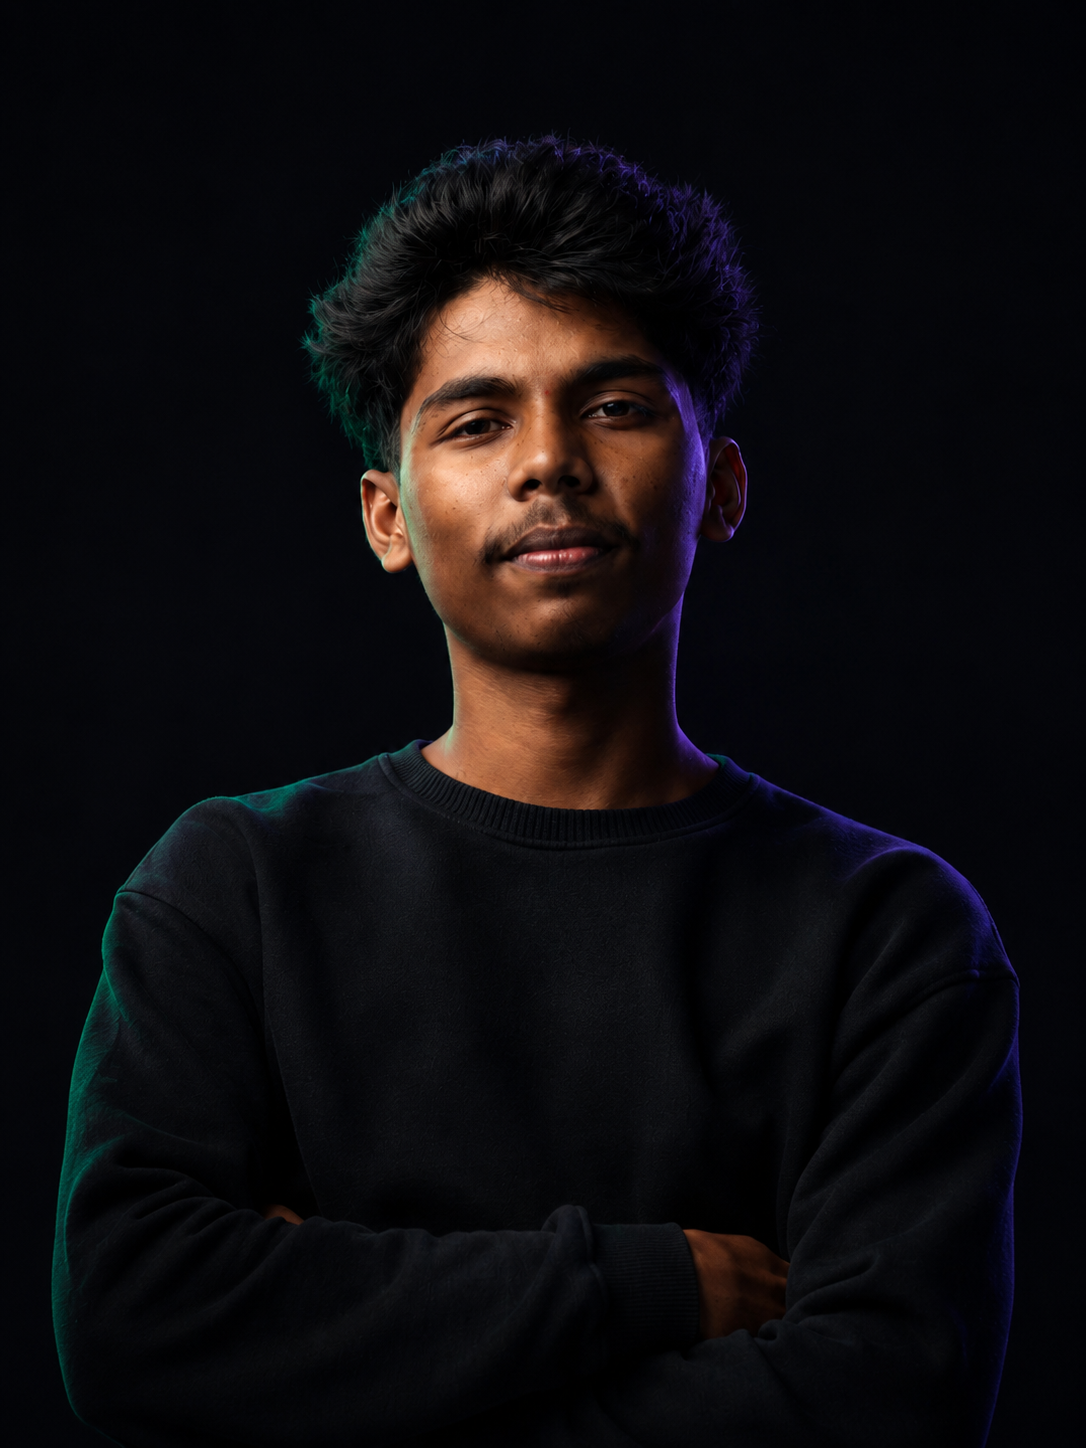
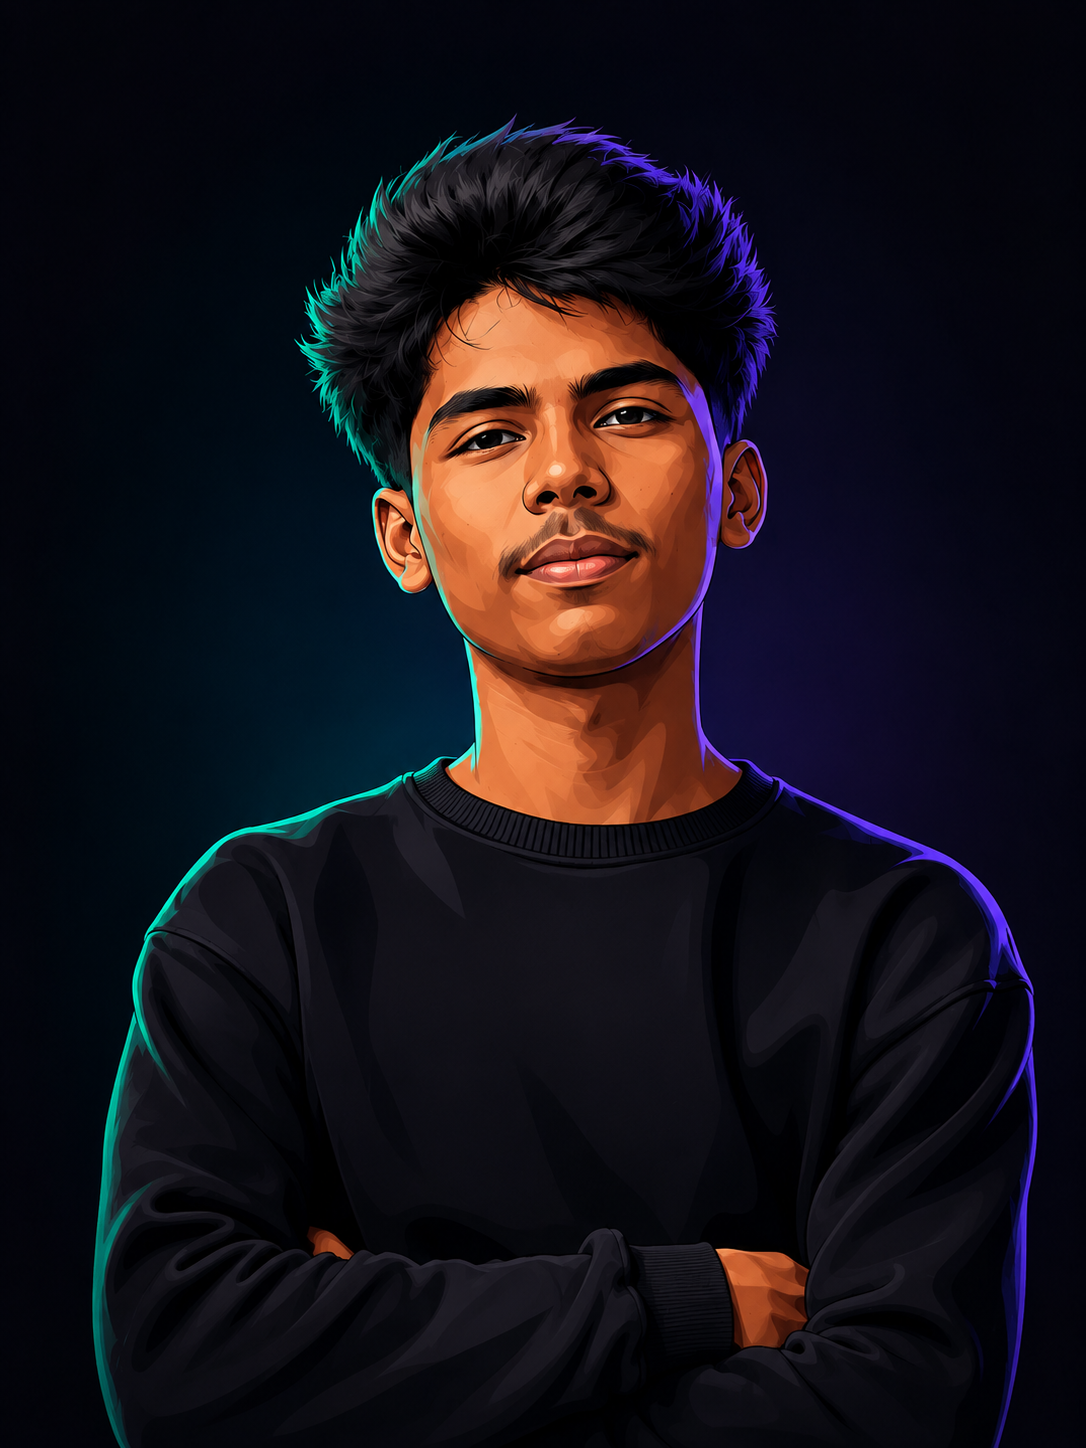
redesigned hero section

diff --git a/src/index.css b/src/index.css
@@ -265,12 +265,99 @@ textarea:focus-visible {
 }
 
 /* ═══════════════════════════════════════════
-   MARQUEE
+   SKILL MARQUEE
    ═══════════════════════════════════════════ */
-.marquee-container {
-  overflow: hidden;
-  -webkit-mask-image: linear-gradient(to right, transparent, black 10%, black 90%, transparent);
-  mask-image: linear-gradient(to right, transparent, black 10%, black 90%, transparent);
+
+/* Keyframe: slides the track leftward by exactly half (since items are duplicated) */
+@keyframes skill-marquee-slide {
+  0% {
+    transform: translate3d(0, 0, 0);
+  }
+  100% {
+    transform: translate3d(-50%, 0, 0);
+  }
+}
+
+/* Animated track */
+.skill-marquee-track {
+  gap: 24px;
+  animation: skill-marquee-slide 28s linear infinite;
+  will-change: transform;
+}
+
+/* Individual skill pill */
+.skill-pill {
+  display: flex;
+  align-items: center;
+  gap: 12px;
+  height: 48px;
+  padding: 0 28px;
+  flex-shrink: 0;
+  border-radius: 16px;
+  background-color: #151515;
+  border: 1px solid #2A2A2A;
+  color: #D7D7D7;
+  font-family: 'Inter', system-ui, sans-serif;
+  font-weight: 600;
+  font-size: 18px;
+  letter-spacing: 0.01em;
+  cursor: pointer;
+  user-select: none;
+  transition:
+    transform 350ms cubic-bezier(0.22, 0.61, 0.36, 1),
+    background-color 350ms cubic-bezier(0.22, 0.61, 0.36, 1),
+    border-color 350ms cubic-bezier(0.22, 0.61, 0.36, 1),
+    box-shadow 350ms cubic-bezier(0.22, 0.61, 0.36, 1);
+}
+
+.skill-pill:hover {
+  transform: translateY(-4px);
+  background-color: #1B1B1B;
+  border-color: #3B82F6;
+  box-shadow: 0 8px 25px rgba(59, 130, 246, 0.15);
+}
+
+/* Glowing blue dot */
+.skill-dot {
+  width: 8px;
+  height: 8px;
+  flex-shrink: 0;
+  border-radius: 50%;
+  background-color: #3B82F6;
+  box-shadow: 0 0 10px rgba(59, 130, 246, 0.5);
+  transition:
+    box-shadow 350ms cubic-bezier(0.22, 0.61, 0.36, 1),
+    transform 350ms cubic-bezier(0.22, 0.61, 0.36, 1);
+}
+
+.skill-pill:hover .skill-dot {
+  box-shadow: 0 0 14px rgba(59, 130, 246, 0.95);
+  transform: scale(1.15);
+}
+
+/* ── Responsive ── */
+@media (max-width: 768px) {
+  .skill-marquee-track {
+    gap: 16px;
+  }
+
+  .skill-pill {
+    height: 42px;
+    padding: 0 20px;
+    font-size: 15px;
+    border-radius: 14px;
+  }
+}
+
+@media (min-width: 769px) and (max-width: 1024px) {
+  .skill-marquee-track {
+    gap: 20px;
+  }
+
+  .skill-pill {
+    padding: 0 24px;
+    font-size: 16px;
+  }
 }
 
 /* ═══════════════════════════════════════════

diff --git a/src/components/SkillMarquee.jsx b/src/components/SkillMarquee.jsx
@@ -1,0 +1,68 @@
+const marqueeSkills = [
+  "Python",
+  "JavaScript",
+  "React",
+  "HTML5",
+  "CSS3",
+  "SQL",
+  "MongoDB",
+  "Git",
+  "GitHub",
+  "Java",
+  "C",
+  "C++",
+  "VS Code",
+];
+
+export default function SkillMarquee() {
+  // Duplicate the list for seamless infinite loop
+  const duplicated = [...marqueeSkills, ...marqueeSkills];
+
+  return (
+    <div className="relative isolate mt-16 w-full">
+      {/* Soft radial blue glow behind the container */}
+      <div
+        aria-hidden="true"
+        className="pointer-events-none absolute -inset-6 -z-10 rounded-[40px]"
+        style={{
+          background:
+            "radial-gradient(ellipse at 50% 50%, rgba(59,130,246,0.07) 0%, transparent 70%)",
+        }}
+      />
+
+      {/* Main marquee container */}
+      <div
+        className="skill-marquee-container group relative overflow-hidden rounded-[28px] border border-[#242424] bg-[#0B0B0B]"
+        style={{
+          padding: "20px 24px",
+          boxShadow: "inset 0 1px 1px rgba(255,255,255,0.03)",
+        }}
+      >
+        {/* Fade mask wrapper */}
+        <div
+          className="flex overflow-hidden"
+          style={{
+            WebkitMaskImage:
+              "linear-gradient(to right, transparent 0%, black 8%, black 92%, transparent 100%)",
+            maskImage:
+              "linear-gradient(to right, transparent 0%, black 8%, black 92%, transparent 100%)",
+          }}
+        >
+          {/* Animated track — pauses on container hover */}
+          <div className="skill-marquee-track flex shrink-0 items-center">
+            {duplicated.map((skill, i) => (
+              <div
+                key={`${skill}-${i}`}
+                className="skill-pill group/pill"
+              >
+                {/* Glowing blue dot */}
+                <span className="skill-dot" />
+                <span>{skill}</span>
+              </div>
+            ))}
+          </div>
+        </div>
+      </div>
+    </div>
+  );
+}

diff --git a/src/components/Skills.jsx b/src/components/Skills.jsx
@@ -1,6 +1,7 @@
 import { motion } from "framer-motion";
 import Section from "./Section";
-import { skillCategories, techMarquee } from "../data/content";
+import SkillMarquee from "./SkillMarquee";
+import { skillCategories } from "../data/content";
 import {
   CodeBracketIcon,
   LayoutIcon,
@@ -101,22 +102,8 @@ export default function Skills() {
         })}
       </div>
 
-      {/* Marquee Row */}
-      <div className="mt-16 overflow-hidden rounded-2xl border border-border bg-surface/50 py-6">
-        <div className="marquee-container flex">
-          <div className="animate-marquee flex shrink-0 items-center gap-8 pr-8">
-            {techMarquee.concat(techMarquee).map((tech, i) => (
-              <div
-                key={`${tech}-${i}`}
-                className="flex items-center gap-3 rounded-xl bg-card px-5 py-2.5 text-sm font-medium text-secondary border border-border"
-              >
-                <span className="h-2 w-2 rounded-full bg-accent" />
-                {tech}
-              </div>
-            ))}
-          </div>
-        </div>
-      </div>
+      {/* Premium Skill Marquee */}
+      <SkillMarquee />
     </Section>
   );
 }
